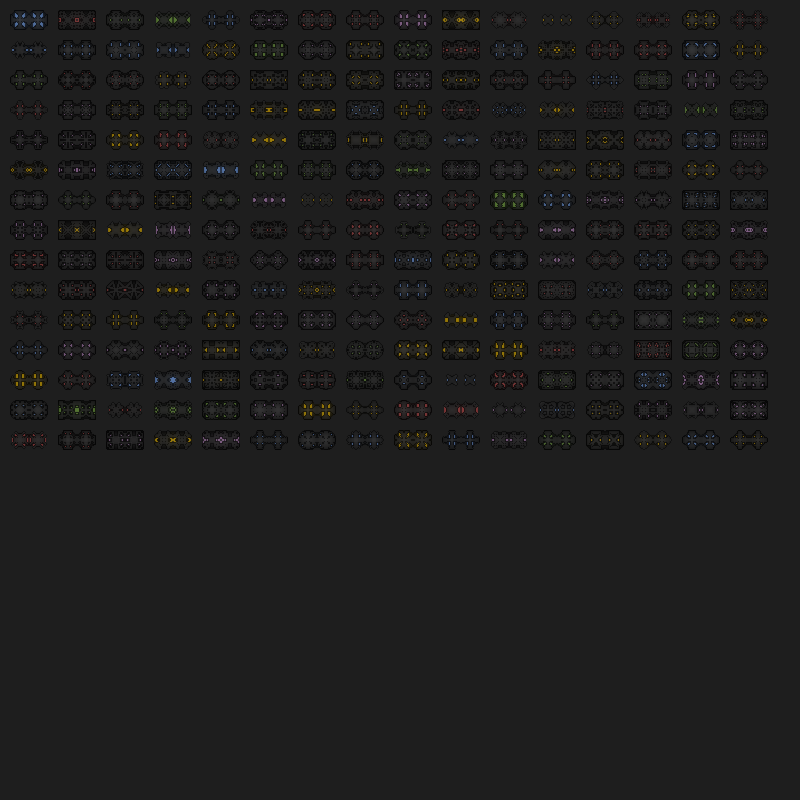
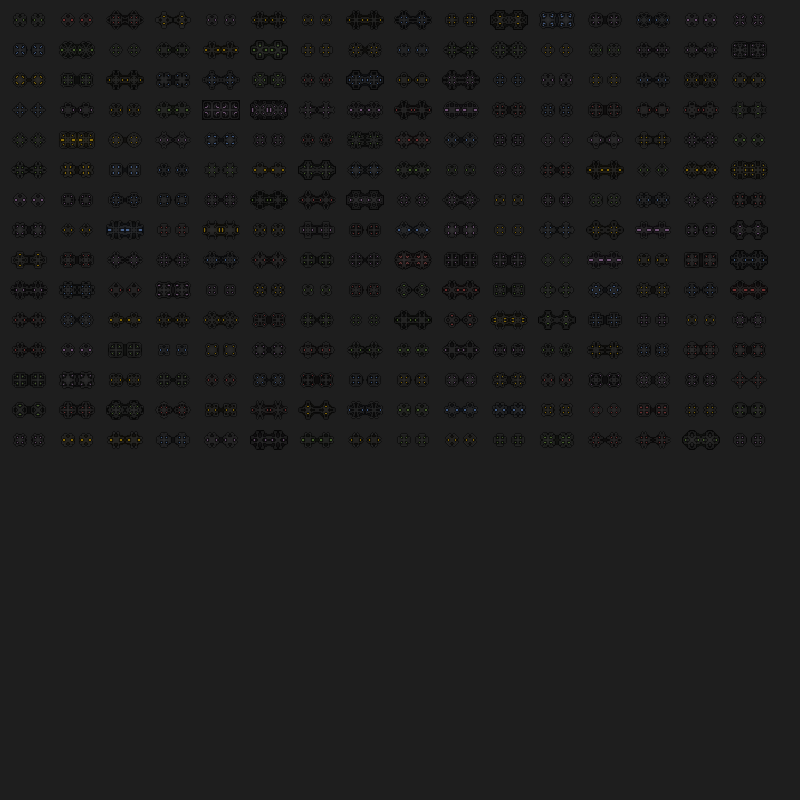
Playing With Colors
Changed vessel primary color to get a random color.

diff --git a/examples/ajb/examples/CreateImageFullOfVessels.java b/examples/ajb/examples/CreateImageFullOfVessels.java
@@ -8,6 +8,7 @@ import java.util.List;
 import ajb.domain.Pixel;
 import ajb.enums.AssetSize;
 import ajb.factory.VesselGeneratorFactory;
+import ajb.utils.ColorUtils;
 import ajb.utils.ImageUtils;
 
 public class CreateImageFullOfVessels {
@@ -30,7 +31,7 @@ public class CreateImageFullOfVessels {
 				grids.add(grid);
 			}
 	
-			Color primaryColor = Color.decode("#2A2A2A");
+			Color primaryColor = Color.decode(ColorUtils.getRandomColour());
 	
 			// create image
 			BufferedImage img = ImageUtils.outputAllToImage(grids, 800, 800, primaryColor, null);
